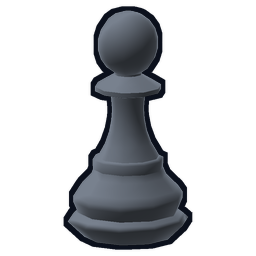
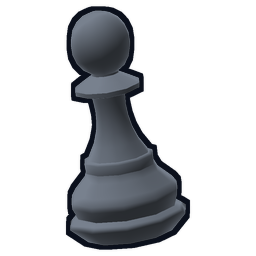
The strip is a card, not a tile: portrait at the collectible ratio, the piece leans, the Secret keeps its star

Changed region(s): [[0.2188, 0.0, 0.75, 1.0]]

diff --git a/src/ui.tsx b/src/ui.tsx
@@ -48,9 +48,20 @@ const INCOME_UI = PRODUCTION_PER_RARITY
  * announcement. It now takes whatever `strip` leaves between the client's own furniture, and
  * the cards came down from 210 so more of the strip fits into it.
  */
-const REEL_W = 200
-const REEL_H = 200
-const REEL_GAP = 14
+/*
+  The card of the strip, in the proportion a collectible card has had since 1993: 63 by 88 mm,
+  which is 0.716. Both numbers were 200 and nothing chose them (owner, 5 Sep: "les dimensions
+  ont ete choisies au hasard"). A square card is the one shape that says nothing, and it wasted
+  the height a standing piece needs while spending width the strip has to pan across. Portrait
+  gives the toy its room, lets the eye track a row of tall objects rather than a row of tiles,
+  and still shows seven cards across the phone's canvas at this gap.
+
+  The picture inside stays SQUARE, because it is drawn with `textureMode: 'stretch'` from a
+  square file: a portrait art box would squash every piece sideways.
+*/
+const REEL_W = 190
+const REEL_H = 264
+const REEL_GAP = 16
 /** The result line lives inside the reel's panel, above the strip: one vertical budget for the whole reveal. */
 const REEL_TITRE = 48
 /** How much the winning card grows when the strip lands on it. */
@@ -470,7 +481,7 @@ function posesDe(icone: string | undefined): [string, string] | undefined {
 
 const PRECHAUFFE = [
   'panel', 'card', 'inset', 'primary', 'secondary', 'danger', 'fade-left', 'fade-right',
-  'toy-0', 'toy-1', 'toy-2', 'toy-3', 'toy-4', 'toy-5', 'toy-6',
+  'toy-0', 'toy-1', 'toy-2', 'toy-3', 'toy-4', 'toy-5', 'toy-6', 'toy-mystery',
   // Les trois boutons satellites, puis les quatorze verbes du bouton contextuel dans la
   // famille active, quelle qu'elle soit: voir `client/icones.ts`.
   ...ICONES_VERBES, ...POSES.flatMap((v) => [`${ico(v)}-raised`, `${ico(v)}-mid`]),
@@ -1075,7 +1086,7 @@ function revealHold(rarete: number): number { return rarete >= 5 ? 340 : rarete 
 function clamp01(v: number): number { return v < 0 ? 0 : v > 1 ? 1 : v }
 
 /** One card of the strip, at a fixed size: the strip never reflows. */
-const CarteReel = (props: { key?: number; rarete: number; x: number; haut: number; opacite: number; mutId?: number; taille?: number }) => {
+const CarteReel = (props: { key?: number; rarete: number; x: number; haut: number; opacite: number; mutId?: number; taille?: number; devoile?: boolean }) => {
   const rar = RARITIES[props.rarete] ?? RARITIES[0]
   const mut = mutation(props.mutId ?? 0)
   const brut = Color4.fromHexString(rar.color + 'ff')
@@ -1093,14 +1104,25 @@ const CarteReel = (props: { key?: number; rarete: number; x: number; haut: numbe
       uiBackground={{ ...SKIN.card, color: Color4.create(0.55 + 0.45 * brut.r, 0.55 + 0.45 * brut.g, 0.55 + 0.45 * brut.b, 1) }}
     >
       <Label value={rar.name.toUpperCase()} fontSize={TYPE.caption} textWrap="nowrap" color={texte}
-        uiTransform={{ width: '100%', height: 26 }} textAlign="middle-center" />
-      <UiEntity uiTransform={{ width: 118 * k, height: 118 * k }}
-        uiBackground={{ texture: { src: `assets/ui/toy-${props.rarete}.png` }, textureMode: 'stretch' }} />
+        uiTransform={{ width: '100%', height: 30 }} textAlign="middle-center" />
+      {/*
+        The Secret keeps its star while it is only a candidate.
+
+        Every other rung shows the piece itself, rendered from the model it will be on the
+        shelf. The Secret is the one the game never shows before you own it, so the strip
+        draws the old star for it and the winner's card, which only appears once it IS yours,
+        draws the planet (owner, 5 Sep).
+      */}
+      <UiEntity uiTransform={{ width: 168 * k, height: 168 * k }}
+        uiBackground={{
+          texture: { src: `assets/ui/${props.rarete === 6 && props.devoile !== true ? 'toy-mystery' : `toy-${props.rarete}`}.png` },
+          textureMode: 'stretch'
+        }} />
       <Label
         value={mute ? `${mut.name.toUpperCase()}  x${mut.mult}` : `+${formatIncome(INCOME_UI[props.rarete] ?? 1)}/s`}
         fontSize={TYPE.caption} textWrap="nowrap"
         color={mute ? Color4.fromHexString(lisible(mut.color) + 'ff') : C.money}
-        uiTransform={{ width: '100%', height: 26 }} textAlign="middle-center" />
+        uiTransform={{ width: '100%', height: 30 }} textAlign="middle-center" />
     </UiEntity>
   )
 }
@@ -1176,7 +1198,7 @@ function CrateReveal(): ReactEcs.JSX.Element {
                 }}
                 uiBackground={{ ...SKIN.card, color: gagne }}
               >
-                <CarteReel rarete={rarete} x={8} haut={8} opacite={1} mutId={boxView.resultatMutation} taille={REEL_W * (1 + 0.22 * pop)} />
+                <CarteReel rarete={rarete} x={8} haut={8} opacite={1} devoile mutId={boxView.resultatMutation} taille={REEL_W * (1 + 0.22 * pop)} />
               </UiEntity>
             )}
           </UiEntity>

diff --git a/src/client/build-stamp.ts b/src/client/build-stamp.ts
@@ -6,4 +6,4 @@
  * construction: the code may be wrong, or the client may simply be showing the previous
  * version. Two hours of that argument (1 Sep) is what this four-character string ends.
  */
-export const BUILD = '1028'
+export const BUILD = 'e48f'

diff --git a/tools/model/render-item-thumbs.py b/tools/model/render-item-thumbs.py
@@ -37,9 +37,13 @@ N = 256
 SS = 3
 # The piece fills this share of the frame, matching what the glyphs did.
 FILL = 0.92
-# Seen from slightly to the left and slightly above, the angle a display case uses.
-YAW = math.radians(24)
+# Seen from slightly to the left and slightly above, the angle a display case uses, then
+# tipped in the plane of the picture. A piece standing perfectly upright reads as an
+# inventory entry; the same piece leaning reads as an object being handed to you, and the
+# diagonal is what catches the eye first (owner, 5 Sep: "un peu en biais, ca accroche plus").
+YAW = math.radians(30)
 PITCH = math.radians(14)
+ROLL = math.radians(9)
 # The key comes from the upper left, the fill from behind the camera, the rim draws the edge.
 KEY = (-0.45, 0.78, 0.44)
 AMBIENT = 0.34
@@ -145,12 +149,14 @@ def triangles(path):
 
 
 def view(p):
-    """World to camera: yaw, then pitch, looking down the negative z of the result."""
+    """World to camera: yaw, then pitch, then the tip in the picture plane."""
     cy, sy = math.cos(YAW), math.sin(YAW)
     cp, sp = math.cos(PITCH), math.sin(PITCH)
+    cr, sr = math.cos(ROLL), math.sin(ROLL)
     x, y, z = p
     x, z = x * cy + z * sy, -x * sy + z * cy
     y, z = y * cp - z * sp, y * sp + z * cp
+    x, y = x * cr - y * sr, x * sr + y * cr
     return x, y, z
 
 
